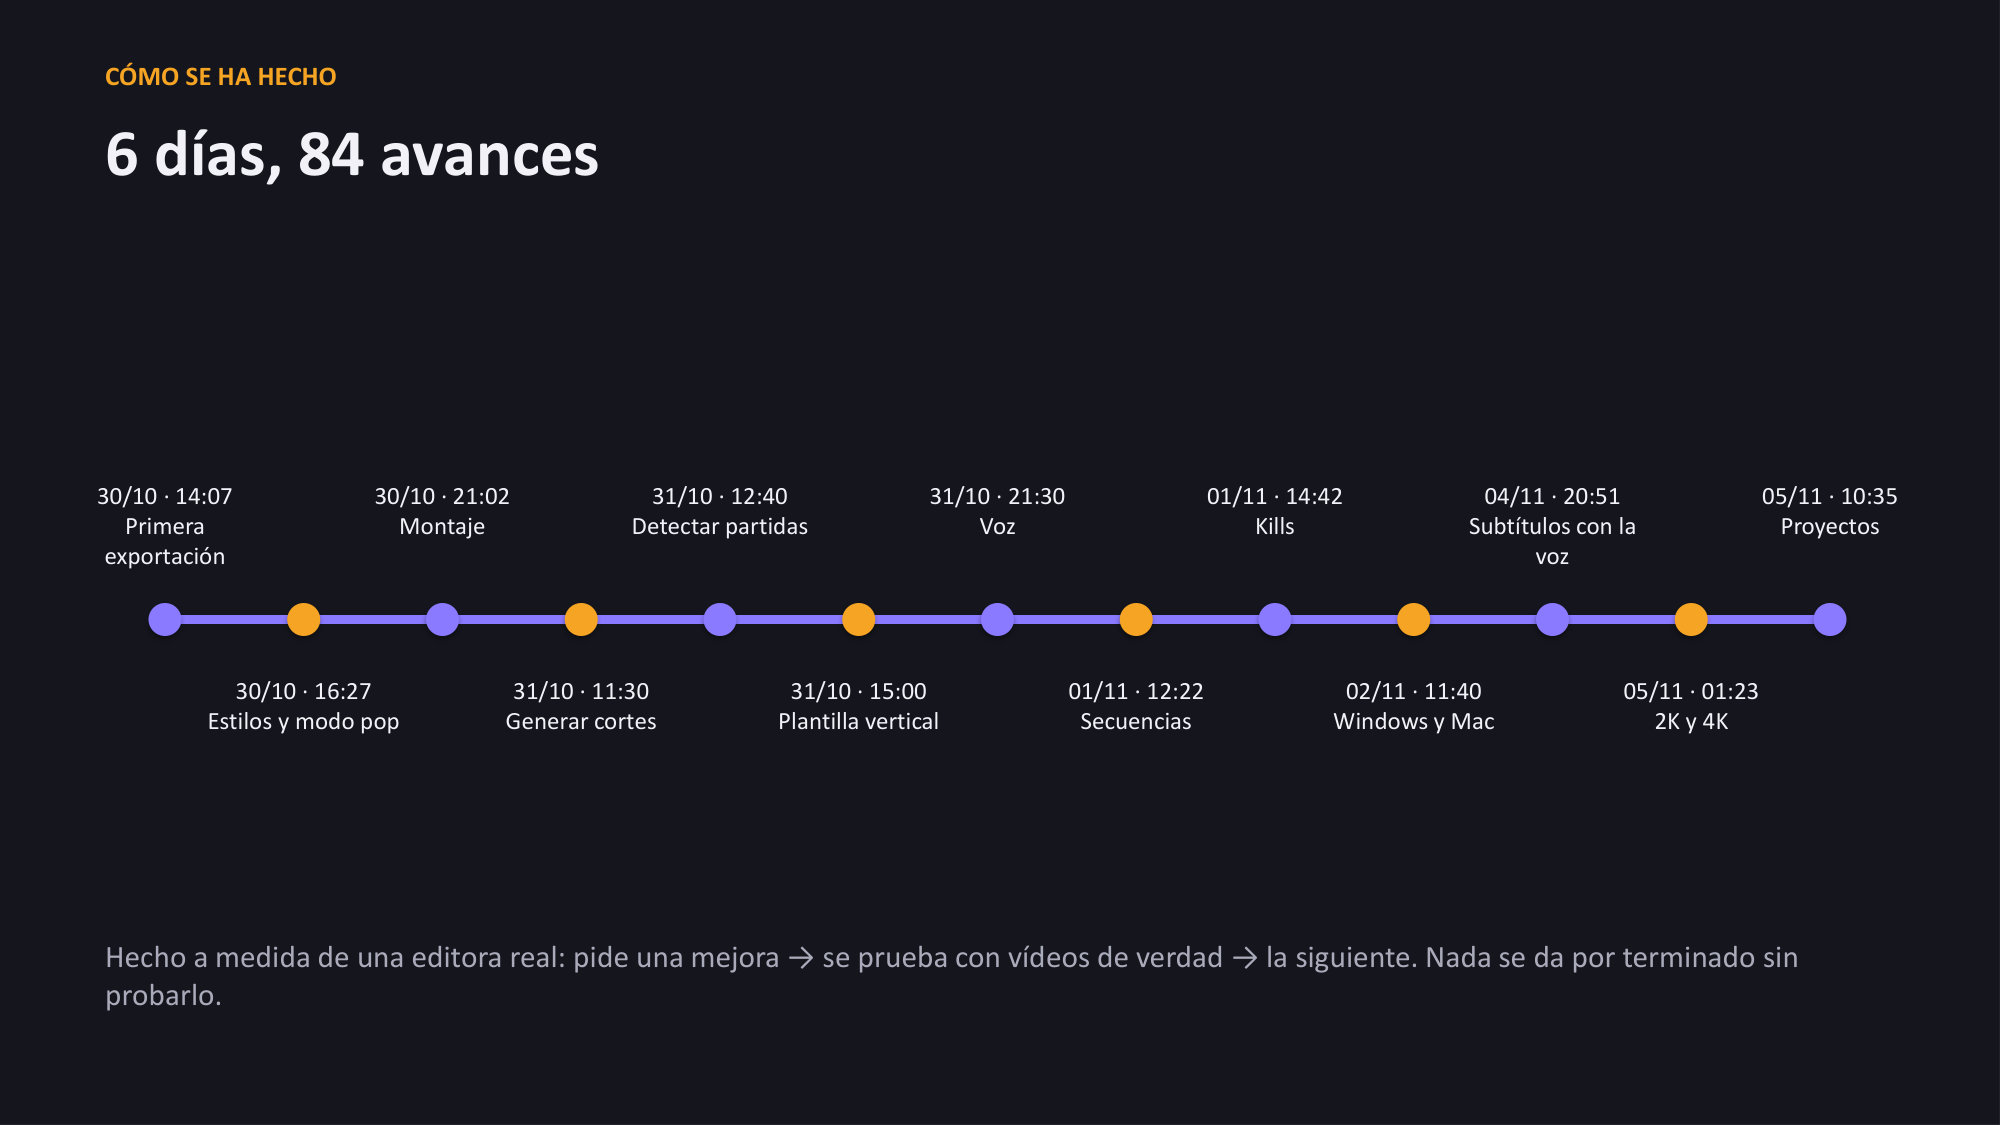
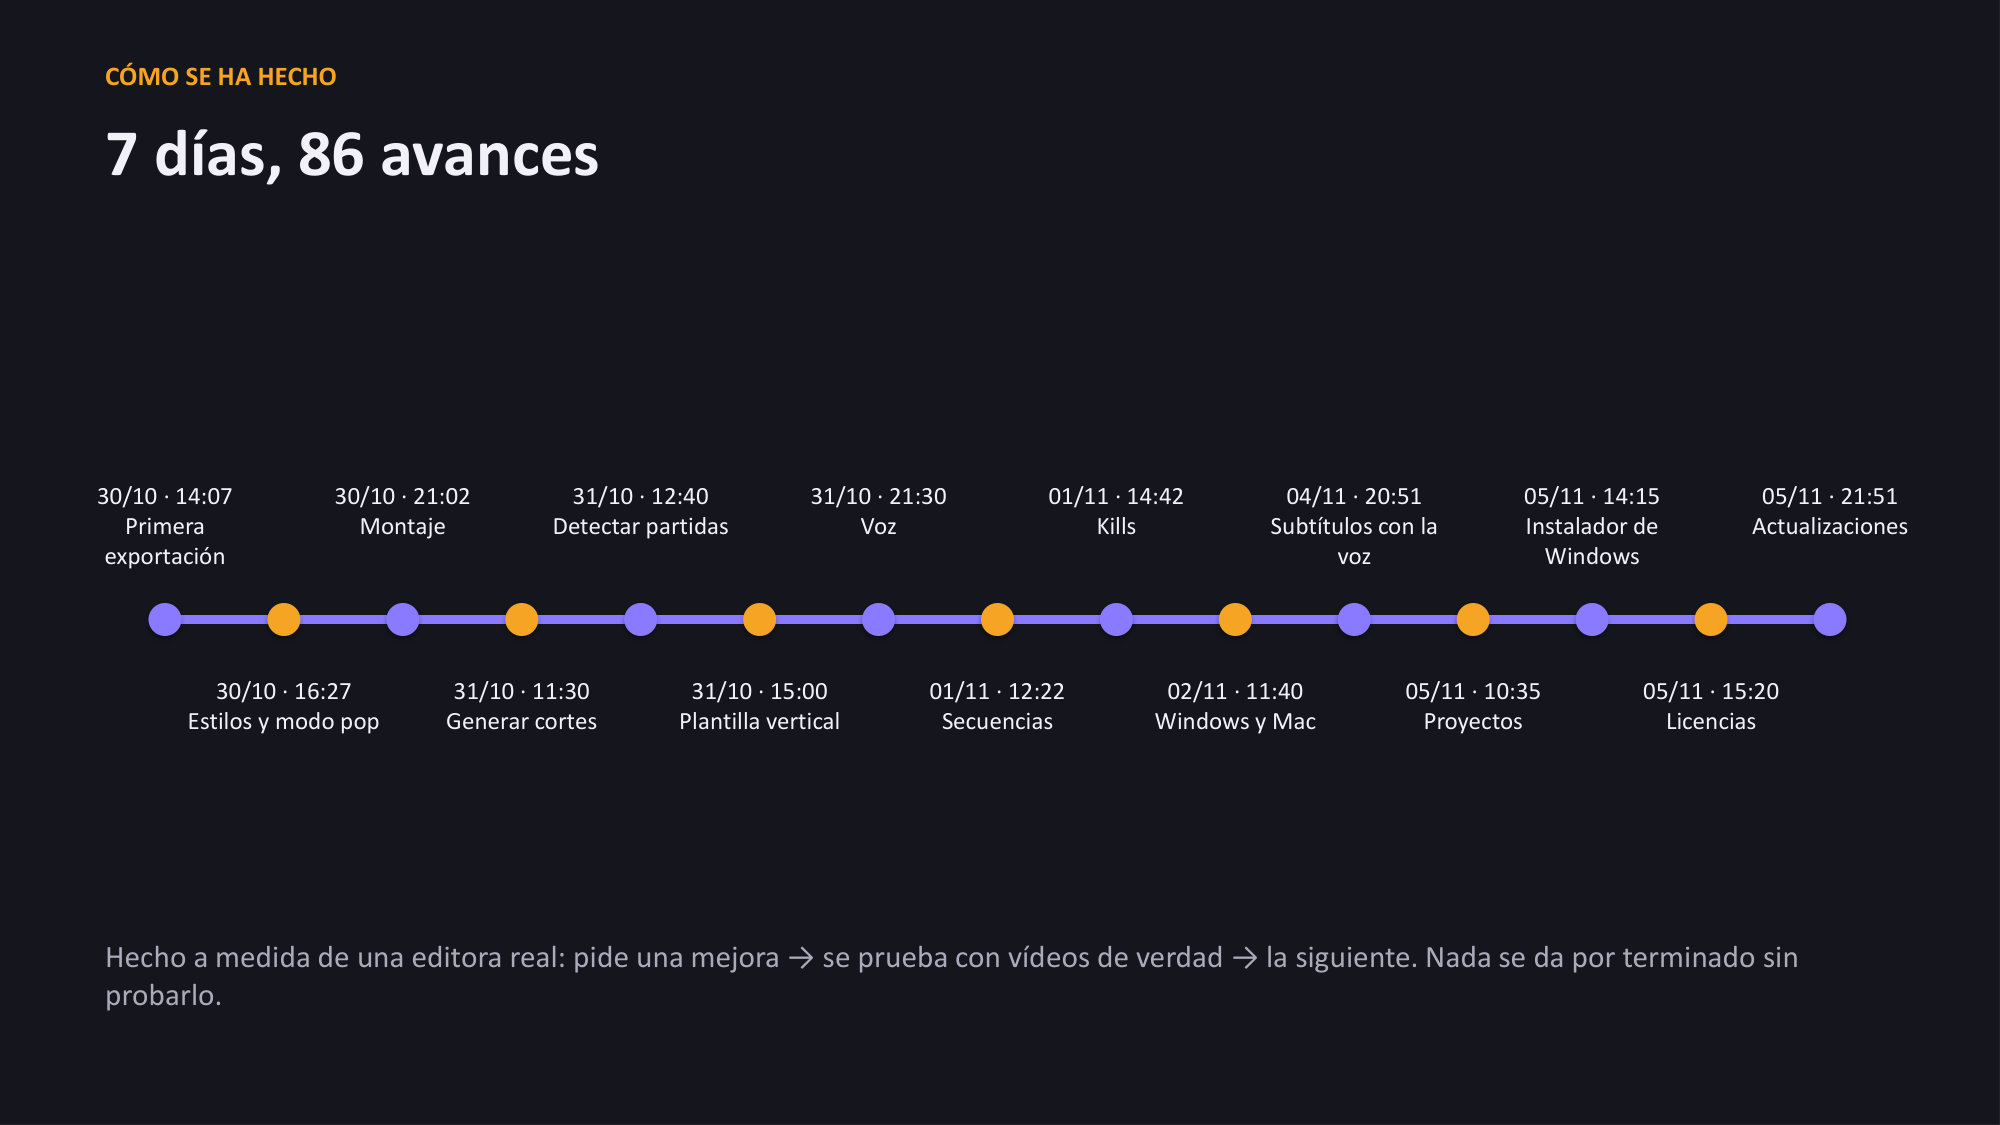
Presentación actualizada (06/11/2026)

diff --git a/index.html b/index.html
@@ -85,8 +85,8 @@ button:focus-visible { outline: 2px solid var(--amber); outline-offset: 2px; }
     <img src="diapositivas/16.jpg?v=b43ebe0cb0" alt="Diapositiva 16: ACTUALIZACIONES Cada versión nueva, con un clic Al abrir NoxCut, si hay una versión nueva (Windows) Al abrir la versión nueva: lo que trae ●Al abrir, NoxCut mir">
     <img src="diapositivas/17.jpg?v=f922026b1b" alt="Diapositiva 17: A MEDIDA Hecho con una editora que lo usa cada día Pidió: Poder arrastrar imágenes y vídeos desde el explorador, como en cualquier editor. → Se sueltan en cualq">
     <img src="diapositivas/18.jpg?v=a3d9475fdc" alt="Diapositiva 18: LICENCIAS Cada ordenador, su propia clave Lo que ve quien instala NoxCut la primera vez 1 Instalas NoxCut La primera vez te enseña el código único de tu ordenad">
-    <img src="diapositivas/19.jpg?v=b022ddc001" alt="Diapositiva 19: CÓMO SE HA HECHO 6 días, 84 avances 30/10 · 14:07 Primera exportación 30/10 · 16:27 Estilos y modo pop 30/10 · 21:02 Montaje 31/10 · 11:30 Generar cortes 31/10 ">
-    <img src="diapositivas/20.jpg?v=7b91afcd13" alt="Diapositiva 20: RESULTADOS En números 6 días del prototipo a editor de vídeo (30/10 a 05/11/2026) 84 avances en la cronología, cada uno probado 13 s para encontrar las 11 parti">
+    <img src="diapositivas/19.jpg?v=4749ff63ce" alt="Diapositiva 19: CÓMO SE HA HECHO 7 días, 86 avances 30/10 · 14:07 Primera exportación 30/10 · 16:27 Estilos y modo pop 30/10 · 21:02 Montaje 31/10 · 11:30 Generar cortes 31/10 ">
+    <img src="diapositivas/20.jpg?v=7ebe1674f7" alt="Diapositiva 20: RESULTADOS En números 7 días del prototipo a editor de vídeo (30/10 a 06/11/2026) 86 avances en la cronología, cada uno probado 13 s para encontrar las 11 parti">
     <img src="diapositivas/21.jpg?v=225a4eb3a3" alt="Diapositiva 21: PRÓXIMOS PASOS Lo que viene Versión para Linux Lo mismo que en Mac y Windows: instalar y abrir con un clic. Aceleración AMD Investigar aceleración por GPU compa">
     <img src="diapositivas/22.jpg?v=fdecd2b092" alt="Diapositiva 22: PARA CURIOSOS Cómo está hecho Python 3.13 Lenguaje de toda la aplicación. PySide6 (Qt 6.12) Interfaz de escritorio, vista previa y reproducción. Faster-Whisper ">
     <button class="side prev" id="sidePrev" aria-label="Diapositiva anterior"></button>
